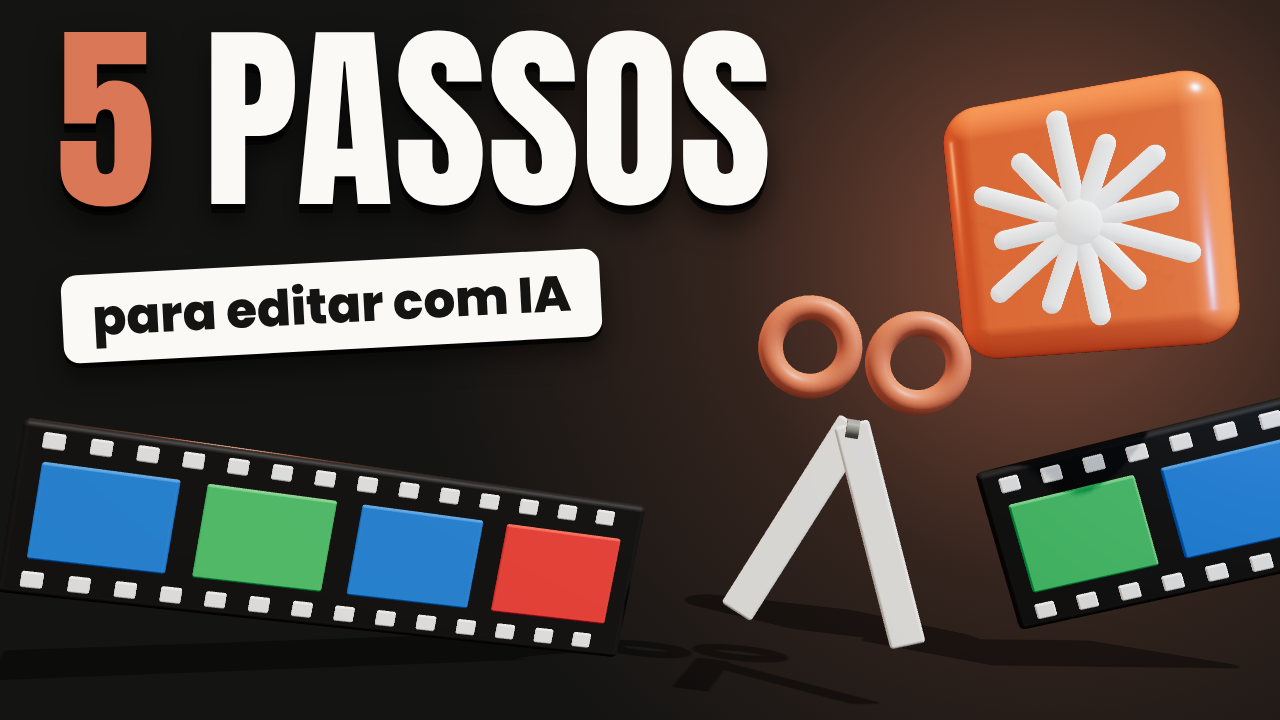
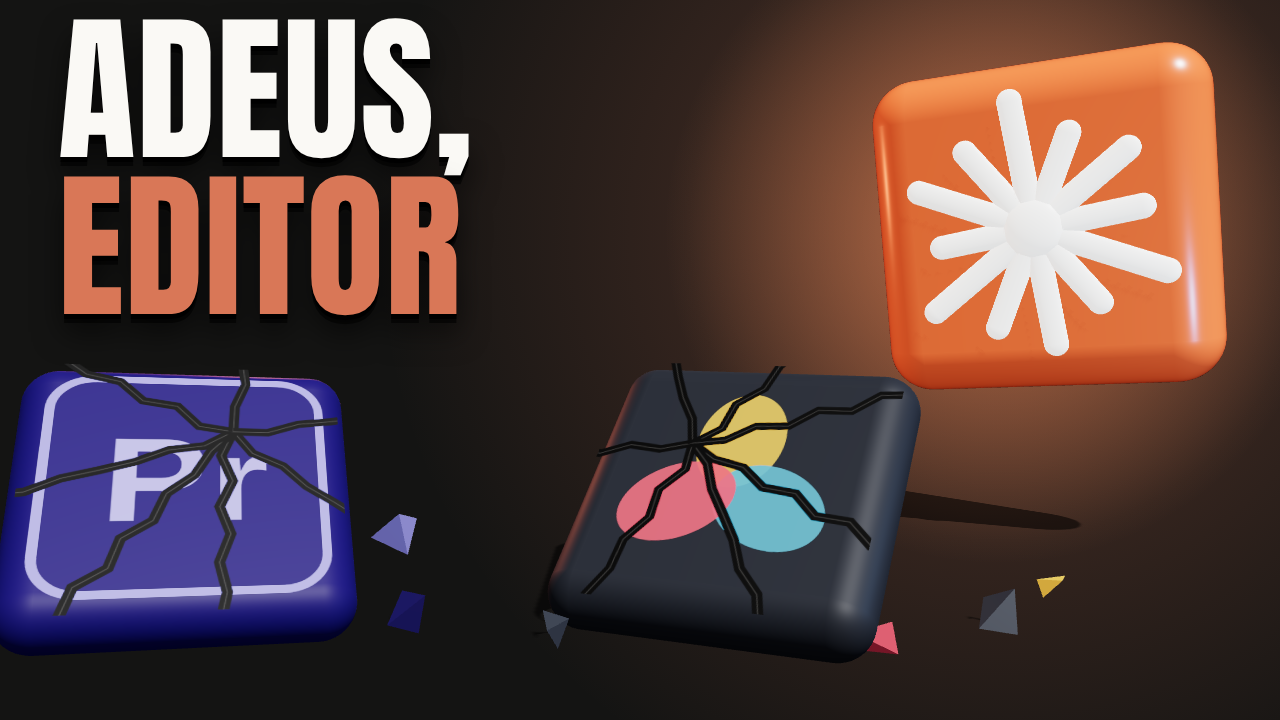
Nova capa C: bloco do Claude de pé e editores caídos
Claude-Session: https://claude.ai/code/session_01Vzt37Nfesv3FfTUpMH7K9L

diff --git a/video-claude-editor/src/Capa.tsx b/video-claude-editor/src/Capa.tsx
@@ -5,6 +5,7 @@ import * as THREE from 'three';
 import './fontes';
 import {cores, vivas, fonte, fonteTitulo} from './tema';
 import {Icone3D} from './tres/Icone3D';
+import {AppCaido} from './tres/AppCaido';
 import {Bloco, Clipe3D, Luzes, ChaoSombra} from './tres/pecas';
 import {Camera} from './tres/Camera';
 
@@ -120,59 +121,40 @@ export const CapaB: React.FC = () => (
   </AbsoluteFill>
 );
 
-// Capa C: personagem com a tesoura cortando a tira de filme.
-const Filme: React.FC<{posicao: [number, number, number]; rotacao: [number, number, number]; quadros: string[]}> = ({posicao, rotacao, quadros}) => {
-  const larg = quadros.length * 1.5 + 0.2;
-  return (
-    <group position={posicao} rotation={rotacao}>
-      <Bloco tam={[larg, 1.7, 0.16]} cor="#262422" raio={0.06} rugosidade={0.5} />
-      {quadros.map((cor, i) => (
-        <Bloco key={i} tam={[1.25, 0.95, 0.06]} cor={cor} raio={0.05} posicao={[-larg / 2 + 0.85 + i * 1.5, 0, 0.09]} sombra={false} />
-      ))}
-      {Array.from({length: Math.floor(larg / 0.42)}).map((_, i) =>
-        [-0.68, 0.68].map((y) => <Bloco key={`${i}${y}`} tam={[0.2, 0.16, 0.05]} cor={cores.creme} raio={0.03} posicao={[-larg / 2 + 0.3 + i * 0.42, y, 0.08]} sombra={false} />)
-      )}
-    </group>
-  );
-};
-
-const Tesoura: React.FC<{posicao: [number, number, number]; rotacao: [number, number, number]; escala?: number}> = ({posicao, rotacao, escala = 1}) => (
-  <group position={posicao} rotation={rotacao} scale={escala}>
-    {[1, -1].map((s) => (
-      <group key={s} rotation={[0, 0, s * 0.4]} position={[0, 0, s * 0.04]}>
-        <Bloco tam={[2.2, 0.34, 0.08]} cor="#f1eee6" raio={0.035} rugosidade={0.2} posicao={[1.05, 0, 0]} />
-        <mesh position={[-0.86, -s * 0.2, 0]} castShadow>
-          <torusGeometry args={[0.38, 0.12, 16, 40]} />
-          <meshStandardMaterial color={cores.laranja} roughness={0.4} />
-        </mesh>
-      </group>
-    ))}
-    <mesh position={[0, 0, 0.1]}>
-      <cylinderGeometry args={[0.09, 0.09, 0.12, 20]} />
-      <meshStandardMaterial color="#8a877f" roughness={0.3} />
-    </mesh>
-  </group>
-);
+// Capa C: o bloco do Claude de pé, e os programas de edição caídos e rachados.
+const cacos: [number, number, number, number, string][] = [
+  // x, y, z, tamanho, cor
+  [-5.4, 0.12, 2.6, 0.34, '#2a2360'],
+  [-1.7, 0.1, 3.0, 0.26, '#2a2360'],
+  [-2.3, 0.14, 0.4, 0.4, '#8f8fe6'],
+  [-0.6, 0.1, 3.4, 0.22, '#3a3f49'],
+  [2.6, 0.12, 3.1, 0.3, '#3a3f49'],
+  [3.3, 0.1, 2.2, 0.2, '#e8b53a'],
+  [-4.6, 0.1, 3.5, 0.2, '#8f8fe6'],
+  [1.6, 0.1, 3.7, 0.24, '#d9566a'],
+];
 
 export const CapaC: React.FC = () => (
   <AbsoluteFill style={{fontFamily: fonte}}>
-    <Fundo brilhoX={82} brilhoY={36} />
+    <Fundo brilhoX={78} brilhoY={32} />
+    <AbsoluteFill style={{background: 'radial-gradient(circle at 78% 32%, rgba(255,150,90,0.5) 0%, rgba(255,150,90,0) 30%)'}} />
     <Tela3D>
-      <Camera pos={[0, 1.6, 12]} alvo={[0, 1.35, 0]} fov={34} />
+      <Camera pos={[0, 2.5, 11.5]} alvo={[0, 1.75, 0]} fov={34} />
       <Luzes />
-      <ChaoSombra y={-1.9} opacidade={0.4} />
-      <Filme posicao={[-3.05, -0.55, 0]} rotacao={[0.1, 0.25, -0.2]} quadros={[vivas.azul, vivas.verde, vivas.azul, vivas.vermelho]} />
-      <Filme posicao={[5.2, -0.2, 0.2]} rotacao={[0.1, -0.2, 0.3]} quadros={[vivas.verde, vivas.azul]} />
-      <Tesoura posicao={[1.95, 0.75, 1.2]} rotacao={[0, -0.15, -1.72]} escala={0.95} />
-      <Icone3D posicao={[4.3, 2.7, 0.6]} rotacao={[0.12, -0.5, 0.14]} escala={1.15} />
+      <ChaoSombra y={0} opacidade={0.55} />
+      <AppCaido tipo="premiere" posicao={[-3.7, 0.72, 2.0]} rotacao={[-0.86, 0.3, 0.24]} escala={1.18} />
+      <AppCaido tipo="davinci" posicao={[0.75, 0.85, 2.6]} rotacao={[-0.88, -0.28, -0.32]} escala={1.12} />
+      {cacos.map(([x, y, z, t, cor], i) => (
+        <mesh key={i} position={[x, y, z]} rotation={[i * 0.7, i * 1.3, i * 0.5]} scale={[1, 0.35, 0.8]} castShadow>
+          <tetrahedronGeometry args={[t * 0.9]} />
+          <meshStandardMaterial color={cor} roughness={0.5} />
+        </mesh>
+      ))}
+      <Icone3D posicao={[3.9, 3.05, 0]} rotacao={[0.1, -0.48, 0.12]} escala={1.42} brilho={0.6} />
     </Tela3D>
-    <Titulo tam={200} left={56} top={22}>
-      <div>
-        <span style={{color: cores.laranja}}>5</span> PASSOS
-      </div>
+    <Titulo tam={160} left={58} top={12}>
+      <div>ADEUS,</div>
+      <div style={{color: cores.laranja}}>EDITOR</div>
     </Titulo>
-    <Etiqueta left={62} top={262} tam={50}>
-      para editar com IA
-    </Etiqueta>
   </AbsoluteFill>
 );

diff --git a/video-claude-editor/src/tres/AppCaido.tsx b/video-claude-editor/src/tres/AppCaido.tsx
@@ -1,0 +1,90 @@
+import React, {useMemo} from 'react';
+import * as THREE from 'three';
+import {RoundedBoxGeometry} from 'three/examples/jsm/geometries/RoundedBoxGeometry.js';
+
+// Ícone de programa de edição, rachado e apagado. Desenho próprio, simplificado,
+// feito só para lembrar o programa de que o vídeo fala.
+type Tipo = 'premiere' | 'davinci';
+
+const desenhar = (tipo: Tipo): THREE.CanvasTexture => {
+  const c = document.createElement('canvas');
+  c.width = 512;
+  c.height = 512;
+  const g = c.getContext('2d')!;
+  g.clearRect(0, 0, 512, 512);
+  if (tipo === 'premiere') {
+    g.strokeStyle = '#8f8fe6';
+    g.lineWidth = 16;
+    g.beginPath();
+    g.roundRect(34, 34, 444, 444, 70);
+    g.stroke();
+    g.fillStyle = '#9d9df0';
+    g.font = 'bold 250px Arial, "DejaVu Sans", sans-serif';
+    g.textAlign = 'center';
+    g.textBaseline = 'middle';
+    g.fillText('Pr', 256, 272);
+  } else {
+    const petala = (ang: number, cor: string) => {
+      g.save();
+      g.translate(256, 268);
+      g.rotate(ang);
+      g.fillStyle = cor;
+      g.beginPath();
+      g.ellipse(0, -92, 78, 104, 0, 0, Math.PI * 2);
+      g.fill();
+      g.restore();
+    };
+    g.globalAlpha = 0.92;
+    petala(0, '#e8b53a');
+    petala((Math.PI * 2) / 3, '#3fa7c9');
+    petala((Math.PI * 4) / 3, '#d9566a');
+    g.globalAlpha = 1;
+  }
+  // rachaduras
+  const rachar = (x: number, y: number, ang: number, n: number, semente: number) => {
+    g.beginPath();
+    g.moveTo(x, y);
+    let a = ang;
+    for (let i = 0; i < n; i++) {
+      a += Math.sin(semente * 7.3 + i * 2.9) * 0.7;
+      x += Math.cos(a) * 58;
+      y += Math.sin(a) * 58;
+      g.lineTo(x, y);
+    }
+    g.strokeStyle = '#050505';
+    g.lineWidth = 17;
+    g.lineJoin = 'miter';
+    g.stroke();
+    g.strokeStyle = 'rgba(255,255,255,0.22)';
+    g.lineWidth = 2;
+    g.stroke();
+  };
+  const [ox, oy] = tipo === 'premiere' ? [330, 150] : [170, 190];
+  for (let i = 0; i < 7; i++) rachar(ox, oy, (i / 7) * Math.PI * 2 + 0.4, 8, i + (tipo === 'premiere' ? 1 : 9));
+  const t = new THREE.CanvasTexture(c);
+  t.colorSpace = THREE.SRGBColorSpace;
+  t.anisotropy = 8;
+  return t;
+};
+
+export const AppCaido: React.FC<{
+  tipo: Tipo;
+  posicao: [number, number, number];
+  rotacao: [number, number, number];
+  escala?: number;
+}> = ({tipo, posicao, rotacao, escala = 1}) => {
+  const corpo = useMemo(() => new RoundedBoxGeometry(2.2, 2.2, 0.5, 8, 0.26), []);
+  const tex = useMemo(() => desenhar(tipo), [tipo]);
+  const cor = tipo === 'premiere' ? '#2a2070' : '#2e323b';
+  return (
+    <group position={posicao} rotation={rotacao} scale={escala}>
+      <mesh geometry={corpo} castShadow receiveShadow>
+        <meshStandardMaterial color={cor} roughness={0.55} />
+      </mesh>
+      <mesh position={[0, 0, 0.256]}>
+        <planeGeometry args={[2.05, 2.05]} />
+        <meshStandardMaterial map={tex} transparent roughness={0.6} />
+      </mesh>
+    </group>
+  );
+};

diff --git a/video-claude-editor/publicacao.md b/video-claude-editor/publicacao.md
@@ -18,17 +18,23 @@ O título 2 passa de 70 caracteres e pode aparecer cortado em algumas telas. A p
 |---|---|---|---|
 | A | capa/capa-a.png | Bloco do Claude em cima da linha do tempo, com o trecho vermelho cortado caindo | EDITADO POR IA, 0 editores |
 | B | capa/capa-b.png | Metade cinza com clipes bagunçados, metade colorida com clipes arrumados, bloco do Claude na divisa | BRUTO, CLAUDE |
-| C | capa/capa-c.png | Bloco do Claude, tesoura e tira de filme cortada | 5 PASSOS, para editar com IA |
+| C | capa/capa-c.png | Bloco do Claude de pé e brilhando, com os ícones do Premiere e do DaVinci caídos e rachados no chão | ADEUS, EDITOR |
 
 Todas em 1280x720, em 3D, geradas por código em `src/Capa.tsx`.
 
 ## Pares sugeridos
 
 - Título 1 com a capa A: os dois dizem que o vídeo foi editado por IA.
-- Título 3 com a capa B: "não teve editor" combina com o antes e depois.
-- Título 2 com a capa C: os dois falam dos 5 passos.
+- Título 3 com a capa C: "não teve editor" combina com "Adeus, editor".
+- Título 2 com a capa B: o passo a passo leva do bruto ao pronto.
 
 ## Pendente
 
 - Descrição, capítulos e tags: fase 8, depois do vídeo pronto.
 - Conferir no YouTube Studio, na hora de publicar, como o teste de capas e de títulos está funcionando no canal.
+
+## Observações
+
+- A capa C substituiu a versão com tesoura e tira de filme, que o Cristian achou fraca.
+- Os ícones do Premiere e do DaVinci na capa C são desenhos próprios e simplificados, não os arquivos oficiais.
+- O vídeo não diz que esses programas acabaram: ele mostra que o auto-editor exporta para eles. A capa C é um exagero de propósito, então o título que for com ela precisa deixar claro que o assunto é editar com o Claude.
